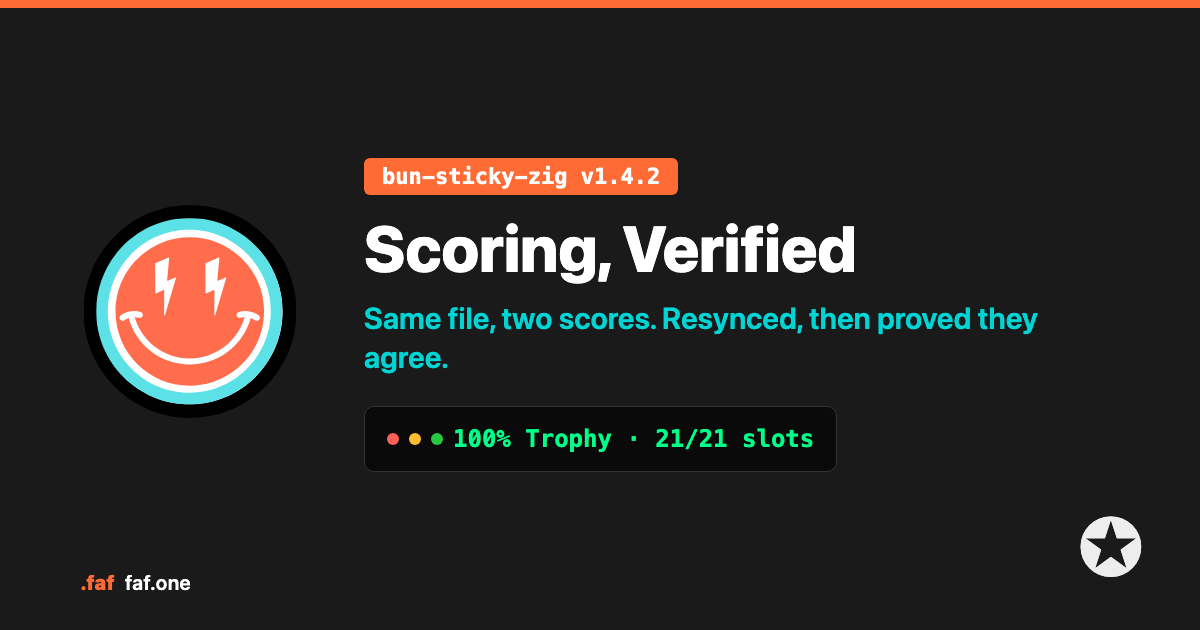
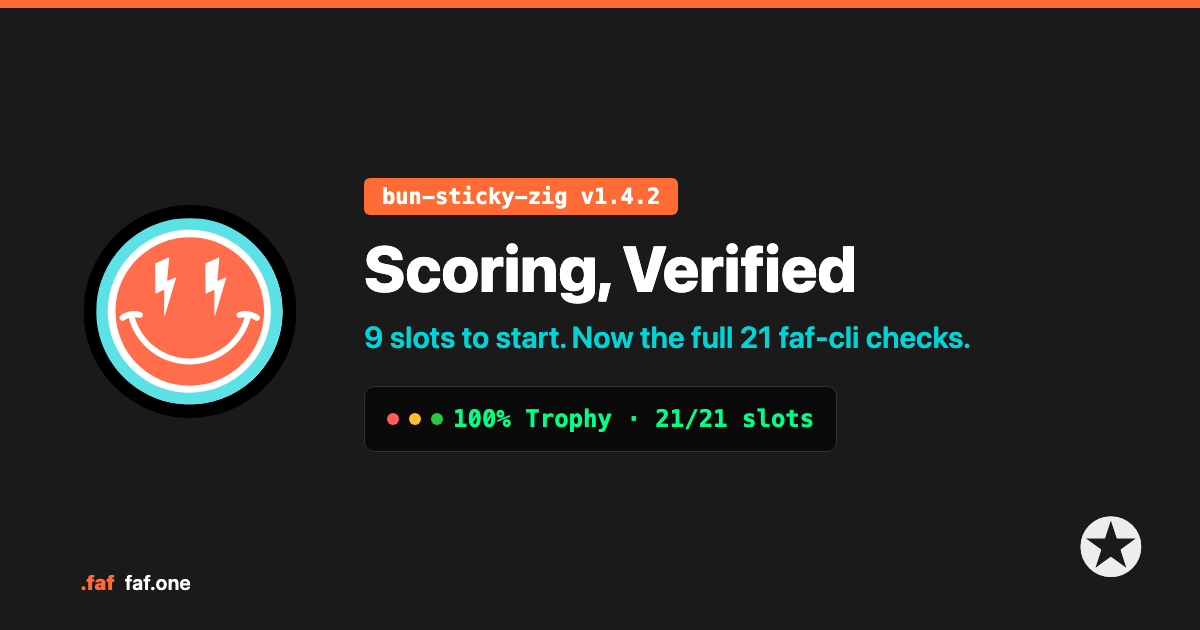
docs: reframe bun-sticky-zig v1.4.2 as an extension, not a fix
Rewrote the scoring narrative from drift/correction language to
growth language — the 9-slot CLI scope was the original lean dogfood
build, not a defect. v1.4.2 extends it to the full 21-slot range
faf-cli checks today, same facts, positive framing throughout.

Removed all 'destructive'/'no longer destructive' language describing
faf sync's prior behavior. Reframed as a safety check faf-cli's own
sync has always had (inherits the latest authoring, preserves what's
there, adds context) that bun-sticky-zig now honors too.

Regenerated hero image to match.

Changed region(s): [[0.2775, 0.2413, 0.8633, 0.6032], [0.3083, 0.6333, 0.6783, 0.7238]]

diff --git a/src/routes/blog/bun-sticky-zig-resync/+page.svelte b/src/routes/blog/bun-sticky-zig-resync/+page.svelte
@@ -18,9 +18,9 @@
 	// Rich X share — DEFAULT craft. Ship line, cold open, receipts, install CTA, feedback CTA.
 	const shareText = `🏁 Just shipped: bun-sticky-zig v1.4.2 — Scoring, Verified
 
-Native Zig CLI for .faf context files — its own score had quietly drifted from the canonical engine.
+Native Zig CLI for .faf context files — grown from a lean 9-slot CLI/dogfood scope to the full 21-slot range faf-cli checks today.
 
-Same file: 100% here, 57% there. Found it, fixed it, verified both engines agree.
+Verified live, not just claimed — both engines checked side by side on the same file.
 
 157/157 tests · 3 platforms · zero deps
 
@@ -34,9 +34,9 @@ Comments · suggestions welcome.`;
 
 <svelte:head>
 	<title>bun-sticky-zig v1.4.2: Scoring, Verified | FAF</title>
-	<meta name="description" content="bun-sticky-zig's own score had drifted from faf-cli's canonical scoring — 100% on one engine, 57% on the other, same file. v1.4.2 resyncs the model, fixes a destructive sync bug, and verifies both engines agree." />
+	<meta name="description" content="bun-sticky-zig grows from its original 9-slot CLI/dogfood scope to the full 21-slot range faf-cli checks today. Tier system consolidated, faf sync gets a safety check, verified live with 157/157 tests across 3 platforms." />
 	<meta property="og:title" content="bun-sticky-zig v1.4.2: Scoring, Verified" />
-	<meta property="og:description" content="Same .faf file. 100% here. 57% in the real engine. Found the drift, fixed the model, verified both engines agree." />
+	<meta property="og:description" content="Grown from a 9-slot CLI/dogfood scope to the full 21-slot range faf-cli checks. Verified live on the same file, both engines side by side." />
 	<meta property="og:type" content="article" />
 	<meta name="twitter:card" content="summary_large_image" />
 	<meta property="og:image" content="https://faf.one/blog/bun-sticky-zig-resync-hero.png" />
@@ -45,7 +45,7 @@ Comments · suggestions welcome.`;
 
 <div class="blog-post">
 	<div class="hero-image">
-		<img src="/blog/bun-sticky-zig-resync-hero.png" alt="bun-sticky-zig v1.4.2 — Scoring, Verified. Same file, two scores. Resynced, then proved they agree." />
+		<img src="/blog/bun-sticky-zig-resync-hero.png" alt="bun-sticky-zig v1.4.2 — Scoring, Verified. Grown from 9 slots to the full 21 faf-cli checks." />
 	</div>
 
 	<header class="post-header">
@@ -53,7 +53,7 @@ Comments · suggestions welcome.`;
 			<a href="/">Home</a> / <a href="/blog">Blog</a> / bun-sticky-zig v1.4.2
 		</div>
 		<h1>bun-sticky-zig v1.4.2: Scoring, Verified</h1>
-		<p class="subtitle">Same file, two scores. Resynced, then proved they agree.</p>
+		<p class="subtitle">9 slots to start. Now the full 21 faf-cli checks.</p>
 		<div class="meta">
 			<time datetime="2026-08-14">August 14, 2026</time>
 			<span class="separator">•</span>
@@ -64,34 +64,34 @@ Comments · suggestions welcome.`;
 	<article class="post-content">
 		<section class="intro">
 			<p class="lead">
-				<strong>TL;DR:</strong> bun-sticky-zig's own scoring had drifted from the canonical <code>faf-cli</code> engine — a project reading 100% here read 57% there, same file. v1.4.2 resyncs the model, consolidates a tier system that had split into three disagreeing implementations, fixes a bug where <code>faf sync</code> could silently overwrite an existing CLAUDE.md, and verifies the fix live — 157/157 tests, 3 platforms, a real Homebrew install.
+				<strong>TL;DR:</strong> bun-sticky-zig launched scoped to 9 applicable slots for CLI-type projects — project and human context, enough for a lean dogfood build. v1.4.2 extends it to the full 21-slot range <code>faf-cli</code> checks today, consolidates the tier system into one clean implementation, adds a safety check to <code>faf sync</code>, and verifies all of it live — 157/157 tests, 3 platforms, a real Homebrew install.
 			</p>
 		</section>
 
 		<section>
-			<h2>What Was Wrong</h2>
+			<h2>Growing Into the Full Range</h2>
 			<p>
-				bun-sticky-zig's scorer was still running the old 21-slot model, where a <code>cli</code>-type project only needed 9 applicable slots — project and human context, nothing else. The live <code>faf-cli</code> engine doesn't do that. Run the same file through both:
+				bun-sticky-zig shipped scoped to 9 applicable slots for a <code>cli</code>-type project — project and human context, the core of a lean dogfood build. <code>faf-cli</code>'s own range covers 21 base slots today. Same file, checked at each scope:
 			</p>
 
 			<div class="copy-box display-only">
-				<code class="copy-code">bun-sticky-zig: 100% Trophy <span class="code-comment"># 9/9 slots</span></code>
+				<code class="copy-code">bun-sticky-zig (9-slot scope): 100% Trophy <span class="code-comment"># 9/9 slots</span></code>
 			</div>
 			<div class="copy-box display-only" style="margin-top: 0.5rem;">
-				<code class="copy-code">faf-cli:        57% Yellow <span class="code-comment"># 12/21 slots</span></code>
+				<code class="copy-code">faf-cli (21-slot range):       57% Yellow <span class="code-comment"># 12/21 slots</span></code>
 			</div>
 
 			<p>
-				Same <code>project.faf</code>. Two different answers. That's a credibility bug, not a rounding error.
+				Same <code>project.faf</code>, two ranges. v1.4.2 grows bun-sticky-zig into the wider one.
 			</p>
 		</section>
 
 		<section>
 			<h2>What Changed</h2>
 			<ul>
-				<li><strong>Scoring resynced.</strong> 21 base slots now apply to every project type uniformly — no more 9-slot exemption for CLI-type projects. 12 enterprise slots apply only when a monorepo/enterprise signal is present in the file.</li>
-				<li><strong>Tier system consolidated.</strong> The tier ladder had split into three disagreeing implementations across the codebase — one still using the retired medal-emoji set and a score-computed "Big Croissant" honor tier that shouldn't have existed. One source of truth now: 8 tiers, the geometric ladder, the ✪ proof seal at 100%.</li>
-				<li><strong><code>faf sync</code> no longer destructive.</strong> It used to overwrite any existing CLAUDE.md unconditionally — no check, no backup. It now refuses unless the file already carries bun-sticky's own signature — closing a gap against a principle <code>faf-cli</code>'s own sync has always followed: block-injected, never clobbered.</li>
+				<li><strong>Extended to the full 21-slot range.</strong> Every project type is now checked against the same 21 base slots <code>faf-cli</code> uses — growing past the original 9-slot CLI/dogfood scope. 12 enterprise slots activate when a monorepo/enterprise signal is present in the file.</li>
+				<li><strong>Tier system consolidated.</strong> Three separate tier implementations across the codebase are now one. Retired the old medal-emoji set in favor of the current geometric ladder — 8 tiers, the ✪ proof seal at 100%.</li>
+				<li><strong><code>faf sync</code> checks before writing.</strong> <code>faf-cli</code>'s own sync inherits the latest authoring — it preserves what's already in your CLAUDE.md and adds FAF context alongside it, never clobbering your words. bun-sticky-zig now honors that same principle: it won't touch a CLAUDE.md unless the file already carries bun-sticky's own signature.</li>
 				<li><strong>Every score now discloses what it is.</strong> Terminal, JSON, and every card format say it plainly: an approximation of faf-cli's live kernel, not the authoritative number.</li>
 			</ul>
 		</section>
@@ -99,7 +99,7 @@ Comments · suggestions welcome.`;
 		<section>
 			<h2>Verified, Not Claimed</h2>
 			<p>
-				The fix shipped through the same pipeline that found the bug — build, test, tag, release, then a real install:
+				The extension shipped through the full pipeline — build, test, tag, release, then a real install:
 			</p>
 
 			<div class="copy-box" onclick={() => copyText('zig build test --summary all', 'test')}>
